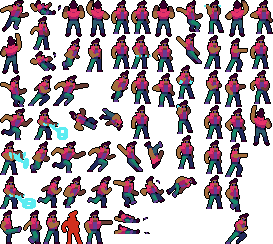
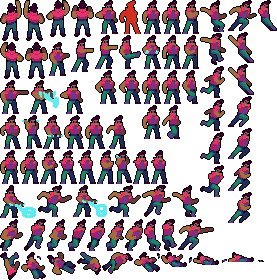
Add Wielding state machine. Split up enums for Actions and Animations. Add handling for switching between rifle and unarmed

diff --git a/src/app/game/game-objects/player.ts b/src/app/game/game-objects/player.ts
@@ -1,6 +1,6 @@
 import { capitalizeString } from "../helpers/string.helpers";
 import { IMainScene } from "../models/main-scene.model";
-import { PlayerActions } from "../models/player.model";
+import { PlayerActionStates, PlayerAnimations, PlayerWieldingStates } from "../models/player.model";
 import StateMachine from "../state-machine";
 
 const KEY: string = 'Biker';
@@ -8,7 +8,9 @@ const DEFAULT_FRAME_RATE = 10;
 
 export class Player extends Phaser.Physics.Arcade.Sprite {
   private cursors: Phaser.Types.Input.Keyboard.CursorKeys;
+  private wieldingToggleKey: Phaser.Input.Keyboard.Key;
   private stateMachine: StateMachine;
+  private wieldingStateMachine: StateMachine;
 
   constructor(
     public override scene: IMainScene,
@@ -23,6 +25,7 @@ export class Player extends Phaser.Physics.Arcade.Sprite {
     this.setupControls();
     this.setAcceleration(0, 800);
     this.setupStateMachine();
+    this.setupWieldingStateMachine();
     this.setupAnimationListeners();
 
     this.setOrigin(0.5, 1);
@@ -30,10 +33,11 @@ export class Player extends Phaser.Physics.Arcade.Sprite {
   
   public override update(time: number, delta: number) {
     this.stateMachine.update(delta);
+    this.wieldingStateMachine.update(delta);
   }
   
   public die(): void {
-    this.anims.play(PlayerActions.DEATH);
+    this.anims.play(PlayerAnimations.DEATH);
     this.setVelocityY(200);
   }
   
@@ -44,29 +48,44 @@ export class Player extends Phaser.Physics.Arcade.Sprite {
   
   private setupAnimations(): void {
     this.anims.create({
-      key: PlayerActions.RUN,
-      frames: this.anims.generateFrameNames(KEY, { prefix: `${capitalizeString(PlayerActions.RUN)}_`, end: 6 }),
+      key: PlayerAnimations.RUN,
+      frames: this.anims.generateFrameNames(KEY, { prefix: `${capitalizeString(PlayerAnimations.RUN)}_`, end: 6 }),
       frameRate: DEFAULT_FRAME_RATE,
       repeat: -1,
     });
   
     this.anims.create({
-      key: PlayerActions.IDLE,
-      frames: this.anims.generateFrameNames(KEY, { prefix: `${capitalizeString(PlayerActions.IDLE)}_`, end: 4 }),
+      key: PlayerAnimations.IDLE,
+      frames: this.anims.generateFrameNames(KEY, { prefix: `${capitalizeString(PlayerAnimations.IDLE)}_`, end: 4 }),
       frameRate: DEFAULT_FRAME_RATE,
       repeat: -1,
     });
 
     this.anims.create({
-      key: PlayerActions.DEATH,
-      frames: this.anims.generateFrameNames(KEY, { prefix: `${capitalizeString(PlayerActions.DEATH)}_`, end: 6 }),
+      key: PlayerAnimations.DEATH,
+      frames: this.anims.generateFrameNames(KEY, { prefix: `${capitalizeString(PlayerAnimations.DEATH)}_`, end: 6 }),
       frameRate: DEFAULT_FRAME_RATE,
     });
 
     this.anims.create({
-      key: PlayerActions.KICK,
-      frames: this.anims.generateFrameNames(KEY, { prefix: `${capitalizeString(PlayerActions.KICK)}_`, end: 6 }),
+      key: PlayerAnimations.KICK,
+      frames: this.anims.generateFrameNames(KEY, { prefix: `${capitalizeString(PlayerAnimations.KICK)}_`, end: 6 }),
       frameRate: DEFAULT_FRAME_RATE,
+    });
+
+    // Animations with player holding a rifle
+    this.anims.create({
+      key: PlayerAnimations.RIFLE_RUN,
+      frames: this.anims.generateFrameNames(KEY, { prefix: `${capitalizeString(PlayerAnimations.RIFLE_RUN)}_`, end: 6 }),
+      frameRate: DEFAULT_FRAME_RATE,
+      repeat: -1,
+    });
+
+    this.anims.create({
+      key: PlayerAnimations.RIFLE_IDLE,
+      frames: this.anims.generateFrameNames(KEY, { prefix: `${capitalizeString(PlayerAnimations.RIFLE_IDLE)}_`, end: 4 }),
+      frameRate: DEFAULT_FRAME_RATE,
+      repeat: -1,
     });
   }
   
@@ -77,59 +96,122 @@ export class Player extends Phaser.Physics.Arcade.Sprite {
   
   private setupControls(): void {
     this.cursors = this.scene.input.keyboard.createCursorKeys();
+    this.wieldingToggleKey = this.scene.input.keyboard.addKey(Phaser.Input.Keyboard.KeyCodes.Q);
   }
 
   private setupStateMachine(): void {
     this.stateMachine = new StateMachine(this, 'player');
     this.stateMachine
       .addState({
-        name: PlayerActions.IDLE,
+        name: PlayerActionStates.IDLE,
         onEnter: this.onIdleEnter,
         onUpdate: this.onIdleUpdate,
       })
       .addState({
-        name: PlayerActions.RUN,
+        name: PlayerActionStates.RUN,
         onEnter: this.onRunEnter,
         onUpdate: this.onRunUpdate
       })
       .addState({
-        name: PlayerActions.KICK, 
+        name: PlayerActionStates.KICK, 
         onEnter: this.onKickEnter,
       })
       .addState({
-        name: PlayerActions.JUMP,
+        name: PlayerActionStates.JUMP,
         onEnter: this.onJumpEnter,
         onUpdate: this.onJumpUpdate
       })
       .addState({
-        name: PlayerActions.FALL,
+        name: PlayerActionStates.FALL,
         onUpdate: this.onFallUpdate
       })
 
-    this.stateMachine.setState(PlayerActions.IDLE);
+    this.stateMachine.setState(PlayerActionStates.IDLE);
+  }
+
+  private setupWieldingStateMachine(): void {
+    this.wieldingStateMachine = new StateMachine(this, 'player-wielding');
+    this.wieldingStateMachine
+      .addState({
+        name: PlayerWieldingStates.NOTHING,
+        onEnter: this.onWieldingNothingEnter,
+        onUpdate: this.onWieldingNothingUpdate
+      })
+      .addState({
+        name: PlayerWieldingStates.RIFLE,
+        onEnter: this.onWieldingRifleEnter,
+        onUpdate: this.onWieldingRifleUpdate,
+      });
+
+      this.wieldingStateMachine.setState(PlayerWieldingStates.NOTHING);
+  }
+
+  private onWieldingNothingEnter(): void {
+    switch (this.stateMachine.currentStateName) {
+      case PlayerActionStates.RUN:
+        this.anims.play(PlayerAnimations.RUN);
+        break;
+      default:
+        this.anims.play(PlayerAnimations.IDLE);
+    }
+  }
+
+  private onWieldingNothingUpdate(): void {
+    if (this.wieldingToggleKey.isDown && this.wieldingStateMachine.timeSinceLastStateChange > 400) {
+      this.wieldingStateMachine.setState(PlayerWieldingStates.RIFLE);
+    }
+  }
+
+  private onWieldingRifleEnter(): void {
+    switch (this.stateMachine.currentStateName) {
+      case PlayerActionStates.RUN:
+        this.anims.play(PlayerAnimations.RIFLE_RUN);
+        break;
+      default:
+        this.anims.play(PlayerAnimations.RIFLE_IDLE);
+    }
+  }
+
+  private onWieldingRifleUpdate(): void {
+    if (this.wieldingToggleKey.isDown && this.wieldingStateMachine.timeSinceLastStateChange > 400) {
+      this.wieldingStateMachine.setState(PlayerWieldingStates.NOTHING);
+    }
   }
 
   private onIdleEnter(): void {
     this.setVelocityX(0);
-    this.anims.play(PlayerActions.IDLE);
+
+    switch (this.wieldingStateMachine?.currentStateName) {
+      case PlayerWieldingStates.RIFLE:
+        this.anims.play(PlayerAnimations.RIFLE_IDLE);
+        break;
+      default:
+        this.anims.play(PlayerAnimations.IDLE);
+    }
   }
 
   private onIdleUpdate(): void {
     if (this.cursors.left.isDown || this.cursors.right.isDown) {
-			this.stateMachine.setState(PlayerActions.RUN);
+			this.stateMachine.setState(PlayerActionStates.RUN);
 		} else if (this.cursors.shift.isDown) {
-			this.stateMachine.setState(PlayerActions.KICK);
+			this.stateMachine.setState(PlayerActionStates.KICK);
 		}
 
     if (this.cursors.up.isDown && (this.body as Phaser.Physics.Arcade.Body).onFloor()) {
-      this.stateMachine.setState(PlayerActions.JUMP);
+      this.stateMachine.setState(PlayerActionStates.JUMP);
     } else if (this.body.velocity.y > 100 && !(this.body as Phaser.Physics.Arcade.Body).onFloor()) {
-      this.stateMachine.setState(PlayerActions.FALL);
+      this.stateMachine.setState(PlayerActionStates.FALL);
     }
   }
 
   private onRunEnter(): void {
-    this.anims.play(PlayerActions.RUN);
+    switch (this.wieldingStateMachine?.currentStateName) {
+      case PlayerWieldingStates.RIFLE:
+        this.anims.play(PlayerAnimations.RIFLE_RUN);
+        break;
+      default:
+        this.anims.play(PlayerAnimations.RUN);
+    }
   }
 
   private onRunUpdate(): void {
@@ -140,25 +222,25 @@ export class Player extends Phaser.Physics.Arcade.Sprite {
       this.setVelocityX(300);
       this.flipX = false;
     } else if (this.cursors.shift.isDown) {
-      this.stateMachine.setState(PlayerActions.KICK);
+      this.stateMachine.setState(PlayerActionStates.KICK);
     } else {
-      this.stateMachine.setState(PlayerActions.IDLE);
+      this.stateMachine.setState(PlayerActionStates.IDLE);
     }
 
     if (this.cursors.up.isDown && (this.body as Phaser.Physics.Arcade.Body).onFloor()) {
-      this.stateMachine.setState(PlayerActions.JUMP);
+      this.stateMachine.setState(PlayerActionStates.JUMP);
     } else if (this.body.velocity.y > 50 && !(this.body as Phaser.Physics.Arcade.Body).onFloor()) {
-      this.stateMachine.setState(PlayerActions.FALL);
+      this.stateMachine.setState(PlayerActionStates.FALL);
     }
   }
 
   private onKickEnter(): void {
     this.setVelocityX(0);
-    this.anims.play(PlayerActions.KICK);
+    this.anims.play(PlayerAnimations.KICK);
   }
 
   private setupAnimationListeners(): void {
-    this.on(`${Phaser.Animations.Events.ANIMATION_COMPLETE}-${PlayerActions.KICK}`, () => this.stateMachine.setState(PlayerActions.IDLE));
+    this.on(`${Phaser.Animations.Events.ANIMATION_COMPLETE}-${PlayerAnimations.KICK}`, () => this.stateMachine.setState(PlayerActionStates.IDLE));
   }
 
   private onJumpEnter(): void {
@@ -168,13 +250,13 @@ export class Player extends Phaser.Physics.Arcade.Sprite {
   private onJumpUpdate(): void {
     if ((this.body as Phaser.Physics.Arcade.Body).onFloor()) {
       if (this.cursors.left.isDown || this.cursors.right.isDown) {
-        this.stateMachine.setState(PlayerActions.RUN);
+        this.stateMachine.setState(PlayerActionStates.RUN);
       } else {
-        this.stateMachine.setState(PlayerActions.IDLE);
+        this.stateMachine.setState(PlayerActionStates.IDLE);
       }
     }
 
-    const jumpFramePrefix = `${capitalizeString(PlayerActions.JUMP)}_`;
+    const jumpFramePrefix = `${capitalizeString(PlayerAnimations.JUMP)}_`;
 
     if (this.body.velocity.y < 0) {
       this.setFrame(`${jumpFramePrefix}1`);
@@ -200,13 +282,13 @@ export class Player extends Phaser.Physics.Arcade.Sprite {
   private onFallUpdate(): void {
     if ((this.body as Phaser.Physics.Arcade.Body).onFloor()) {
       if (this.cursors.left.isDown || this.cursors.right.isDown) {
-        this.stateMachine.setState(PlayerActions.RUN);
+        this.stateMachine.setState(PlayerActionStates.RUN);
       } else {
-        this.stateMachine.setState(PlayerActions.IDLE);
+        this.stateMachine.setState(PlayerActionStates.IDLE);
       }
     }
 
-    const fallFramePrefix = `${capitalizeString(PlayerActions.JUMP)}_`;
+    const fallFramePrefix = `${capitalizeString(PlayerAnimations.JUMP)}_`;
 
     if (this.body.velocity.y < 400) {
       this.setFrame(`${fallFramePrefix}3`);

diff --git a/src/app/game/state-machine.ts b/src/app/game/state-machine.ts
@@ -9,6 +9,15 @@ export default class StateMachine {
 	private context?: object;
   private isChangingState: boolean = false;
   private changeStateQueue: string[] = [];
+  private lastStateChangeTimestamp: number;
+
+  public get currentStateName(): string | undefined  {
+    return this.currentState?.name;
+  }
+  
+  public get timeSinceLastStateChange(): number {
+    return performance.now() - this.lastStateChangeTimestamp;
+  }
 
   constructor(context?: object, id?: string){
 		this.id = id ?? this.id;
@@ -55,6 +64,7 @@ export default class StateMachine {
       this.currentState.onEnter();
     }
   
+    this.lastStateChangeTimestamp = performance.now();
     this.isChangingState = false;
   }
 

diff --git a/src/app/game/models/player.model.ts b/src/app/game/models/player.model.ts
@@ -1,8 +1,25 @@
-export enum PlayerActions {
+export enum PlayerAnimations {
   IDLE = 'idle',
   RUN = 'run',
   JUMP = 'jump',
   FALL = 'fall',
   KICK = 'kick',
   DEATH = 'death',
+  RIFLE_IDLE = 'rifle_idle',
+  RIFLE_RUN = 'rifle_run',
+  RIFLE_JUMP = 'rifle_jump',
+}
+
+export enum PlayerActionStates {
+  IDLE = 'idle',
+  RUN = 'run',
+  JUMP = 'jump',
+  FALL = 'fall',
+  KICK = 'kick',
+  DEATH = 'death',
+}
+
+export enum PlayerWieldingStates {
+  NOTHING = 'nothing',
+  RIFLE = 'rifle'
 }

diff --git a/src/app/game/models/main-scene.model.ts b/src/app/game/models/main-scene.model.ts
@@ -4,7 +4,7 @@ export interface IMainScene extends Phaser.Scene {
   platforms: Phaser.Tilemaps.TilemapLayer;
   player: Player;
   stars: Phaser.Physics.Arcade.Group;
-  bombs:  Phaser.Physics.Arcade.Group;
+  bombs: Phaser.Physics.Arcade.Group;
   score: number;
   scoreText: Phaser.GameObjects.Text;
   isGameOver: boolean;
